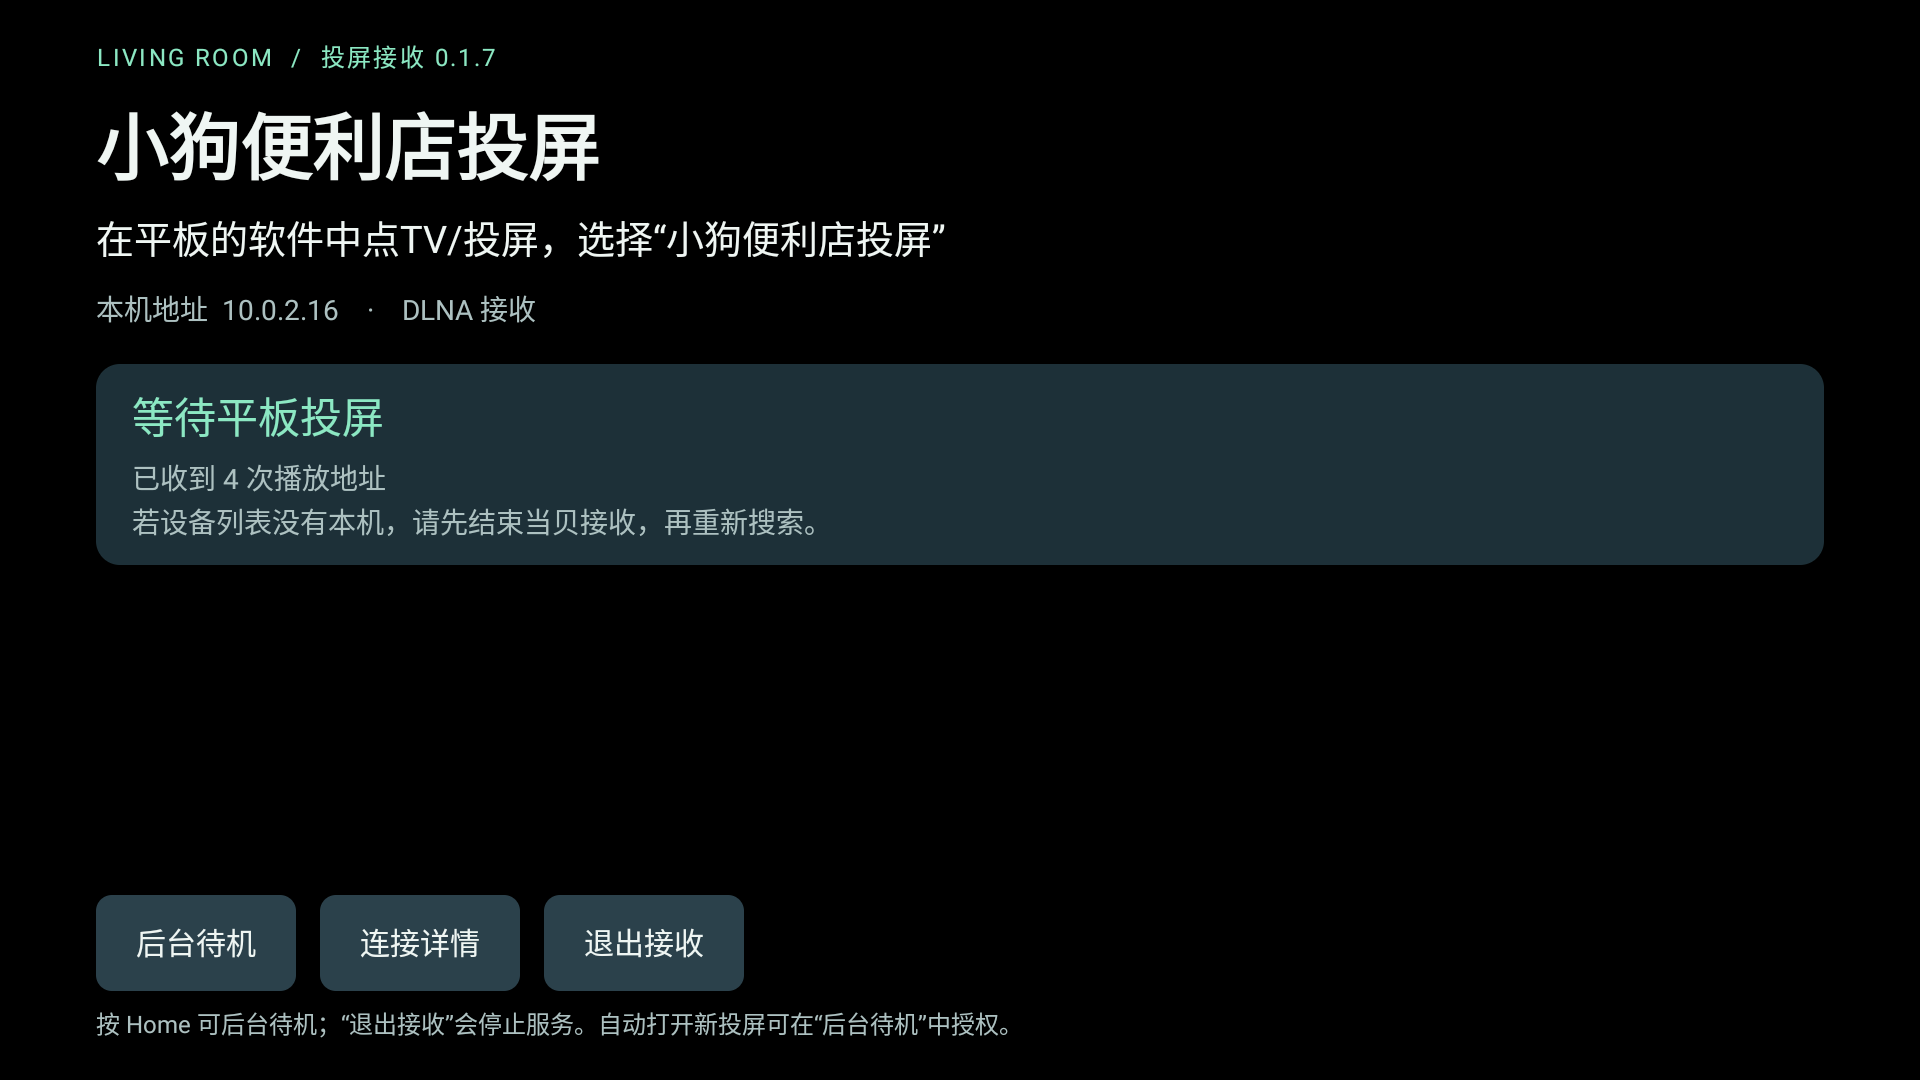
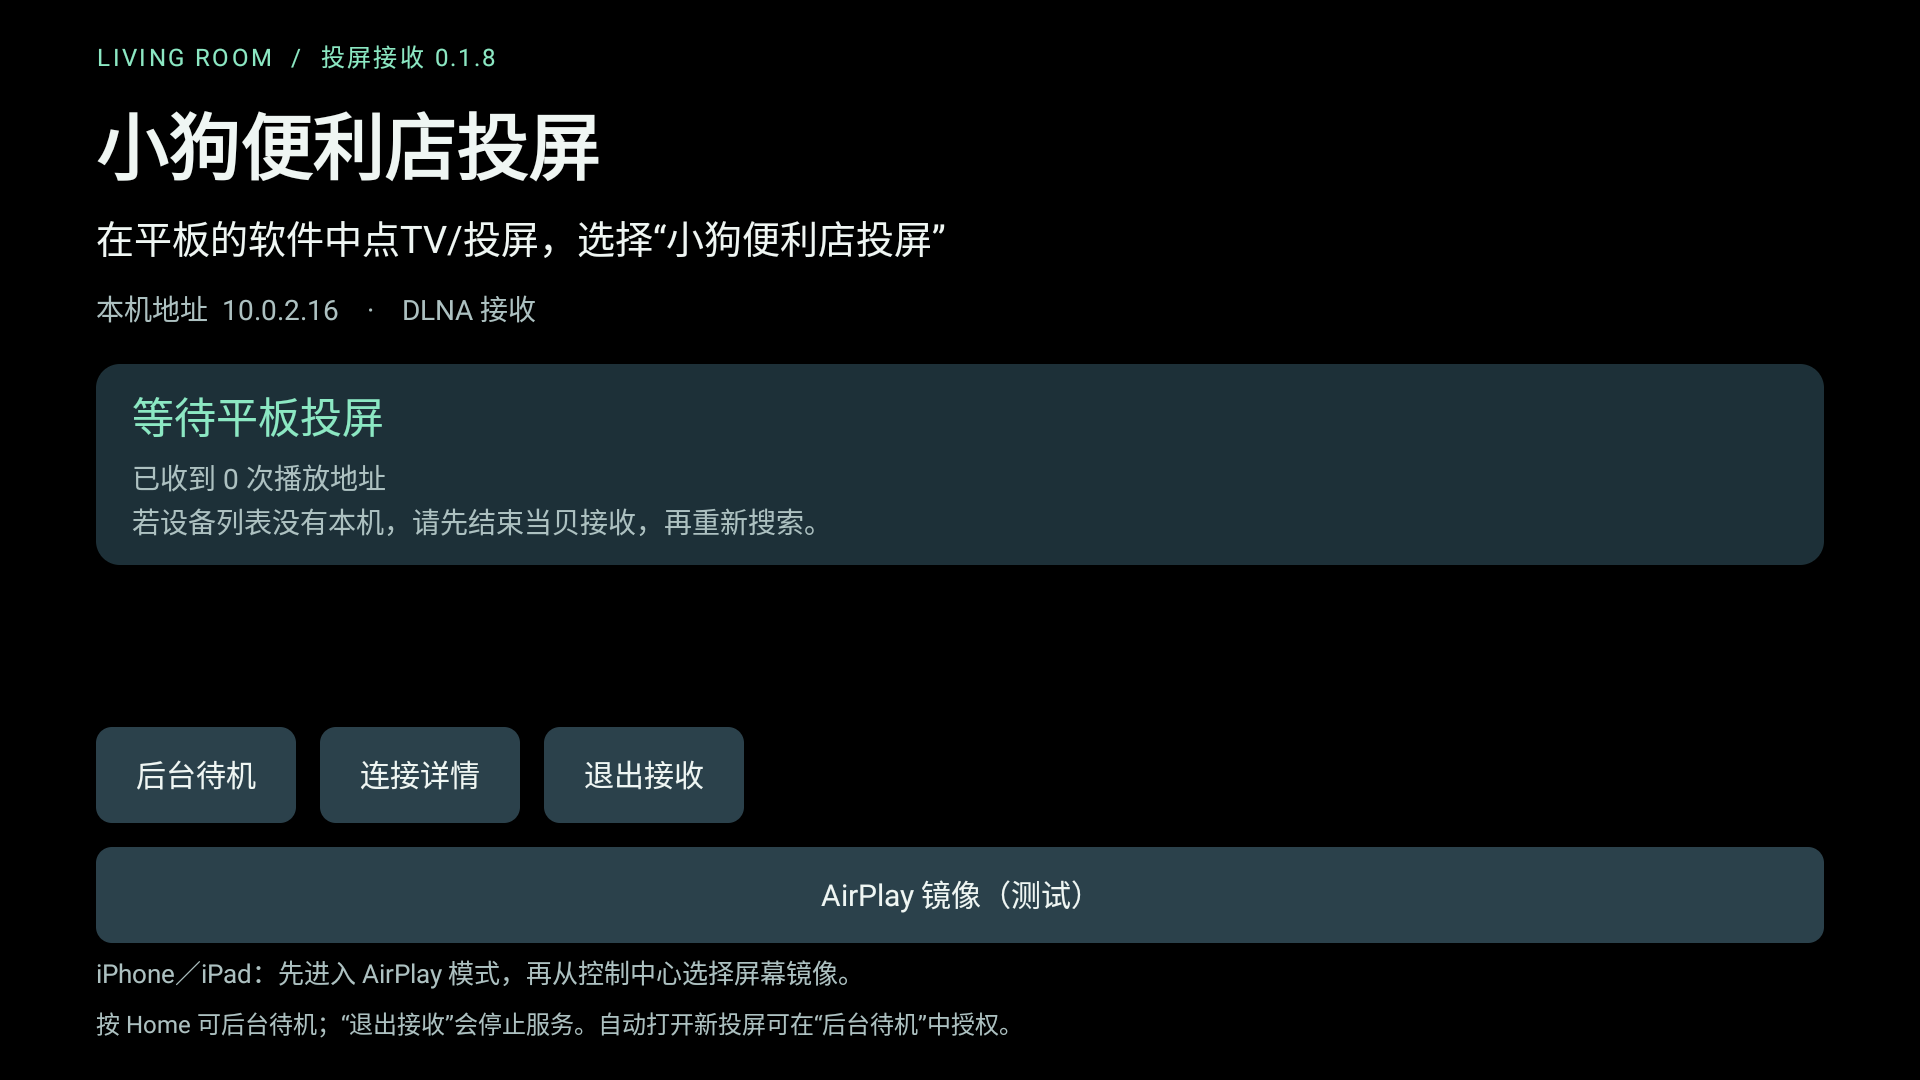
Prepare public 0.1.8-test combined release

Changed region(s): [[0.0312, 0.6722, 0.9688, 0.9167]]

diff --git a/README.md b/README.md
@@ -2,7 +2,7 @@
 
 一个用于安卓电视和安卓平板的轻量 DLNA 视频接收端。打开电视上的应用，在平板视频软件中点 TV / 投屏，选择“小狗便利店投屏”。iPhone／iPad 屏幕镜像可从主界面进入 AirPlay 镜像（测试）。
 
-最初用于家里的安卓平板向索尼电视投送直播。没有账号、广告、订阅收费或人为播放时长限制。当前分支为本地 **0.1.8-test 合并测试版**：保留 0.1.7 的 DLNA、触摸、进度条和倍速，增加 AirPlay 屏幕镜像测试入口；尚未上传 GitHub，目前公开下载仍为 **0.1.7-test**。
+最初用于家里的安卓平板向索尼电视投送直播。没有账号、广告、订阅收费或人为播放时长限制。当前公开测试版为 **0.1.8-test 合并版**：保留 DLNA、触摸、进度条和倍速，增加 AirPlay 屏幕镜像测试入口；一个安装包、一个启动图标，两种模式按需切换。
 
 ![等待投屏界面](docs/images/waiting.png)
 
@@ -40,7 +40,7 @@
 
 ## 安装与使用
 
-下载 [0.1.7-test 测试安装包](https://github.com/leiz56638111-create/puppy-store-cast/releases/download/v0.1.7-test/PuppyStoreCast-0.1.7-test.apk)，或查看 [发布说明、源码和校验值](https://github.com/leiz56638111-create/puppy-store-cast/releases/tag/v0.1.7-test)。也可按下节自行编译。
+下载 [0.1.8-test 测试安装包](https://github.com/leiz56638111-create/puppy-store-cast/releases/download/v0.1.8-test/PuppyStoreCast-0.1.8-test.apk)，或查看 [发布说明、源码和校验值](https://github.com/leiz56638111-create/puppy-store-cast/releases/tag/v0.1.8-test)。也可按下节自行编译。
 
 1. 把 APK 拷到 U 盘，通过电视文件管理器打开；按电视提示允许对应应用安装未知来源的软件。
 2. 安装并打开“小狗便利店投屏”，确认电视已联网。
@@ -63,7 +63,7 @@
 
 ![进度条与倍速控制](docs/images/playback-controls.png)
 
-## AirPlay 镜像（0.1.8-test，本地测试）
+## AirPlay 镜像（0.1.8-test）
 
 - 同一个安装包、同一个图标。从等待页点“AirPlay 镜像（测试）”，再在 iPhone／iPad 控制中心选择“屏幕镜像 → 小狗便利店投屏”。
 - 镜像模式暂停 DLNA；“返回视频投屏”断开镜像并恢复 DLNA。两种模式按需切换，不同时接收。Home／离开镜像界面停止 AirPlay；重新打开应用默认进入 DLNA。
@@ -72,7 +72,9 @@
 - AirPlay 请保持界面打开；原后台待机仅适用于 DLNA。不承诺视频 App 内 AirPlay 按钮、DRM、ALAC 音频、4K、低延迟游戏或完整苹果设备兼容。
 - 覆盖安装原主应用，不会自动合并或卸载历史独立镜像实验包；两者配对记录不同。测试合并版时请先退出独立镜像实验包。
 
-原生组件来源与 GPL／LGPL／Apache 等许可证见 [镜像模块来源](mirror/AIRPLAY-NOTICES.md)。详见 [0.1.8 本地说明](docs/0.1.8-test.md)。
+原生组件来源与 GPL／LGPL／Apache 等许可证见 [镜像模块来源](mirror/AIRPLAY-NOTICES.md)。详见 [0.1.8 发布说明](docs/0.1.8-test.md)。
+
+![AirPlay 镜像等待界面](docs/images/airplay-mirroring.png)
 
 ## 画质选择（0.1.4-test）
 
@@ -108,7 +110,7 @@ bash build-local.sh
 
 构建脚本会为缺少密钥的源码副本生成本地调试密钥。示例密码 `android` 是调试配置，不是生产环境凭据。
 
-公开的 0.1.7-test 安装包沿用此前版本的测试签名，与本地交付的 0.1.7-test 是同一文件；可以覆盖同包名、同签名的已有安装。仓库不包含该签名私钥。不同人自行编译的 APK 签名不同，不能直接覆盖彼此的安装；后续签名安排以各版本发布说明为准。当前本地 0.1.8-test 合并包仍沿用此签名，versionCode 9，可覆盖 0.1.7。
+公开的 0.1.8-test 安装包沿用此前版本的测试签名，与本地交付的 0.1.8-test 是同一文件；可以覆盖同包名、同签名的已有安装。仓库不包含该签名私钥。不同人自行编译的 APK 签名不同，不能直接覆盖彼此的安装；后续签名安排以各版本发布说明为准。0.1.8-test 合并包的 versionCode 为 9，可覆盖旧主版 0.1.7；历史独立镜像实验包不会被覆盖。
 
 ## 测试与参与
 

diff --git a/mirror/README.md b/mirror/README.md
@@ -14,11 +14,13 @@
 
 ## 验证边界
 
-本地已完成 49 项单元测试与 37 项 Android 11 ARM64 模拟器检查，包括真实 mDNS 发现、RTSP /info 和 OPTIONS 响应、配对密钥保存、合成 H.264 解码到 Surface、AAC 输出到 AudioTrack、画面比例与裁剪、真实触摸、Home 停服和重新打开恢复。
+历史独立 alpha2 已完成 49 项单元测试与 37 项 Android 11 ARM64 模拟器检查，包括真实 mDNS 发现、RTSP /info 和 OPTIONS 响应、配对密钥保存、合成 H.264 解码到 Surface、AAC 输出到 AudioTrack、画面比例与裁剪、真实触摸、Home 停服和重新打开恢复。
 
 用户反馈 alpha1 基础投屏可以工作；iPad 的 YouTube 与相册视频切入 AirPlay 播放时，偶发有画面无声，断连重连恢复，并偶发自动加速。此反馈未区分 iPhone 的详细结果，型号及系统小版本也未提供。
 
 alpha2 修复本地已复现的音频重置失效、查询连接误停媒体，以及视频突发数据按解码速度快放；增加音频协商／输出计数和“恢复声音”按钮。重复重置、静音保留、重新协商、视频节奏、控制连接与按钮路径通过模拟器检查，详见 [CHANGELOG.md](CHANGELOG.md)。本次修复是否消除用户的真实故障，仍待相同设备／操作复测；尚无完整的声画同步、长时间、旋转、休眠及多种苹果系统验收。
+
+本次合并版的 52 项单元、40 项 Android 12 镜像／合并检查及 DLNA 回归结果见 [0.1.8 发布说明](../docs/0.1.8-test.md)。这些结果不代表真实苹果设备或 Sony 电视已验收。
 
 ## 构建（合并版本）
 

diff --git a/docs/0.1.8-test.md b/docs/0.1.8-test.md
@@ -26,7 +26,7 @@
 - 原真实 App 只识别一个画质档位的反馈仍暂缓，不因本次合并而解决。
 - 乐视 X4-50Pro 上“小米 14 搜不到”的反馈尚未确认发送入口，也未定位原因；本版不宣称已修复。
 - 索尼电视、真实安卓平板、iPhone／iPad 的合并版连接、声音、长时间使用仍待用户测试。
-- 本地合并测试包尚未上传 GitHub；公开下载仍为 0.1.7-test。
+- 本版公开预发布：[v0.1.8-test](https://github.com/leiz56638111-create/puppy-store-cast/releases/tag/v0.1.8-test)。APK 与本地交付文件相同，未重新编译；附件提供对应源码、GPL 许可证和 SHA-256 校验值。
 
 ## 来源与许可
 
